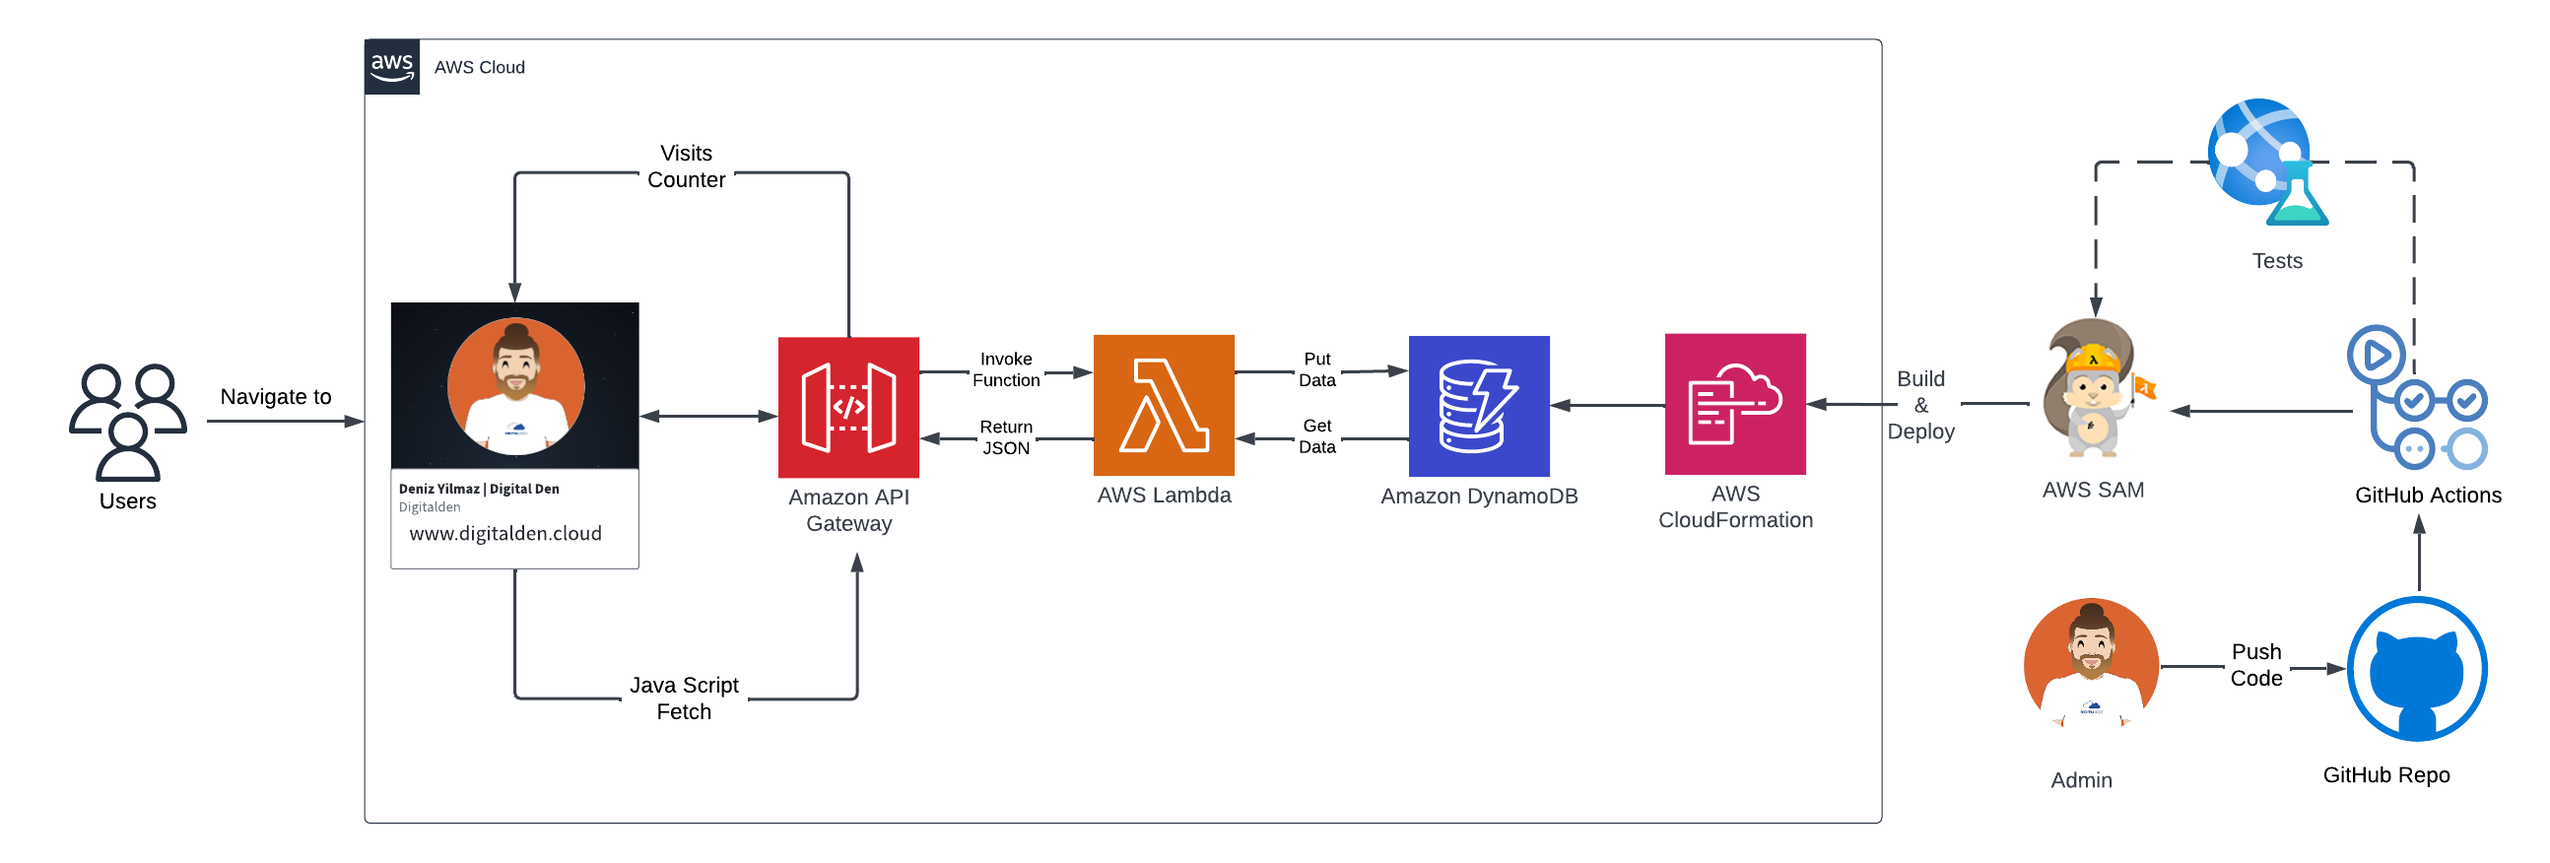
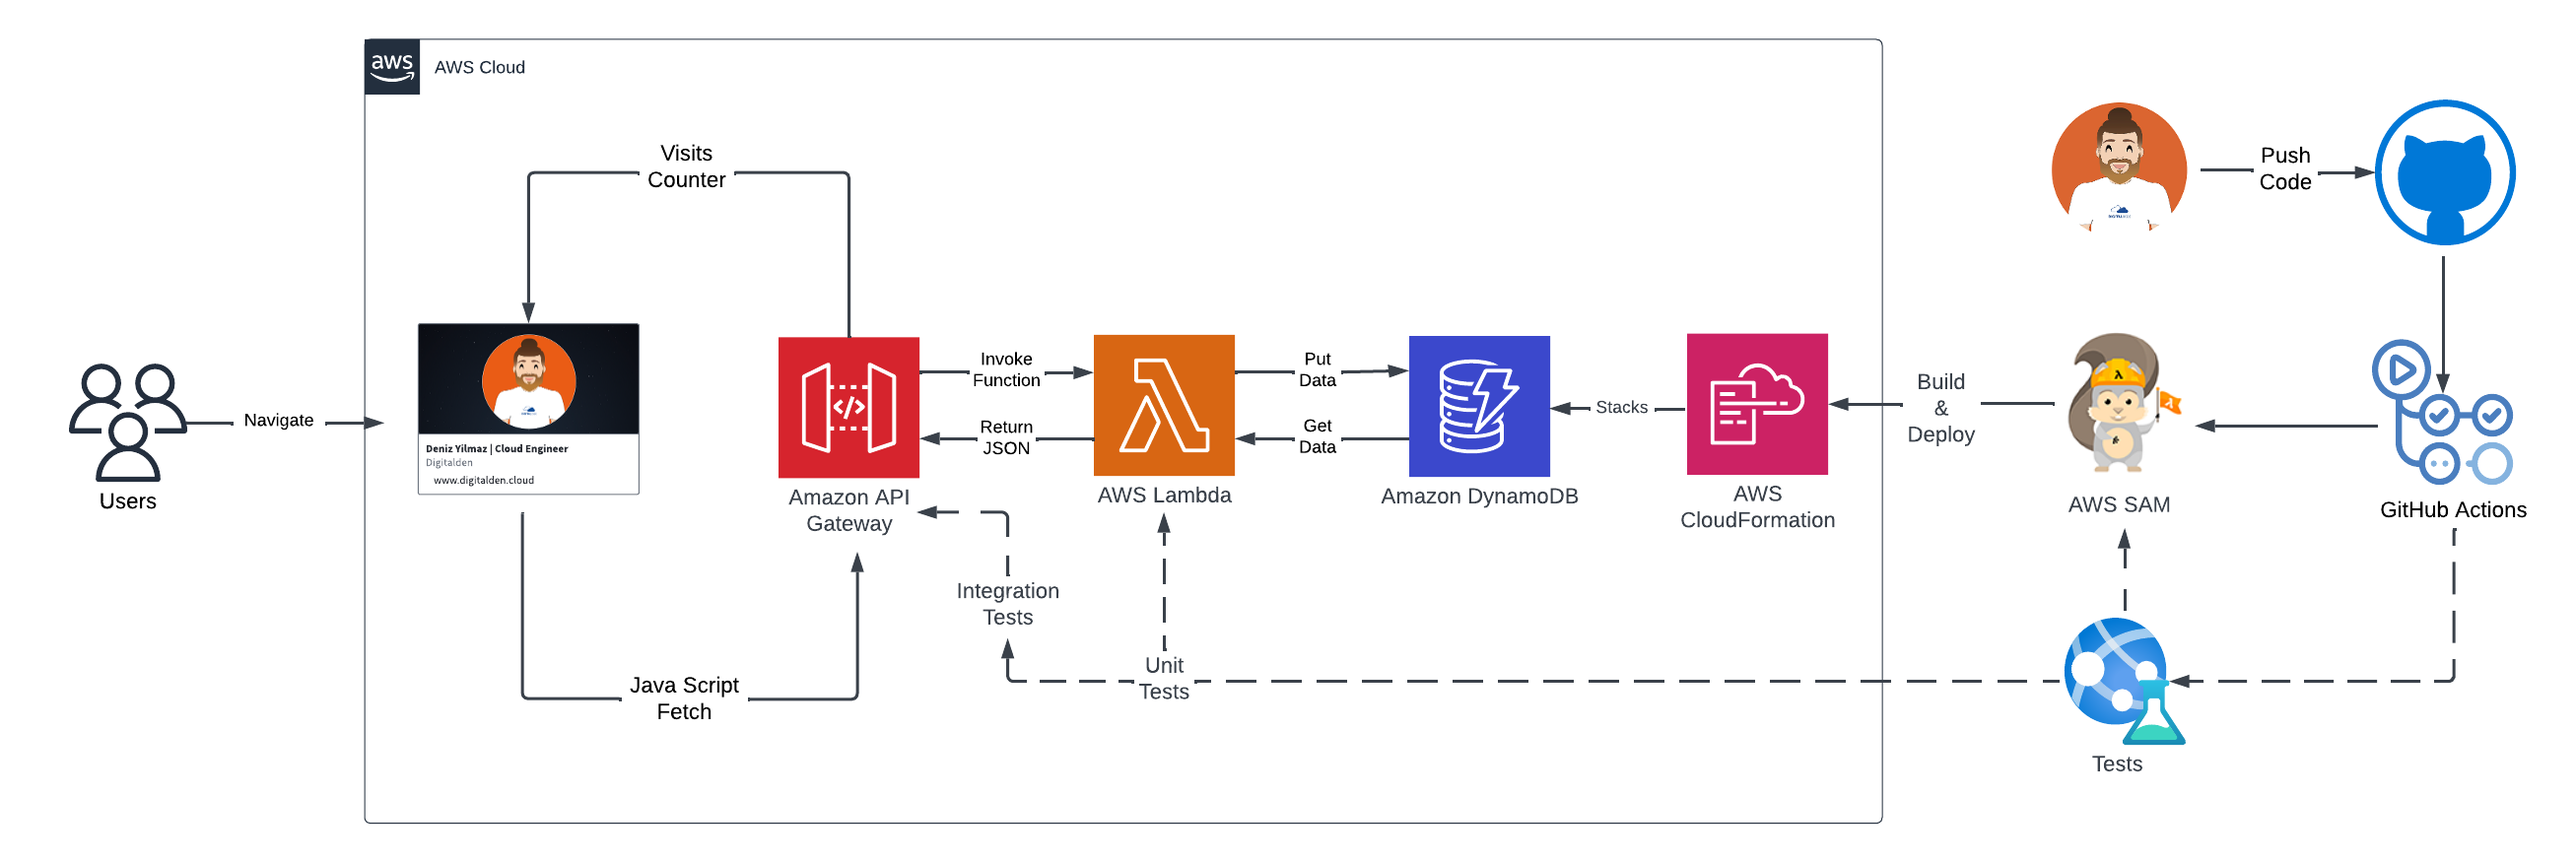
updated architecture images

diff --git a/README.md b/README.md
@@ -2,7 +2,7 @@
 
 <p align="center">
   <a href="img/">
-    <img src="resources/images/digitalden.cloud-backend-architecture-2.png" alt="architecture">
+    <img src="resources/images/digitalden.cloud-full-architecture.png" alt="architecture">
   </a>
   <h1 align="center">A Serverless Website</h1>
   <p align="center">
@@ -71,7 +71,6 @@ The backend components of the website support a counter of visitors to the websi
 
 ### AWS SAM CLI
 ------------------
-
 The SAM CLI is a command line tool that used with AWS SAM templates to build and run serverless applications. It adds functionality for building and testing Lambda applications. It uses Docker to run the functions in an Amazon Linux environment that matches Lambda. It can also emulate the application's build environment and API.
 
 To use the SAM CLI, you need the following tools:
